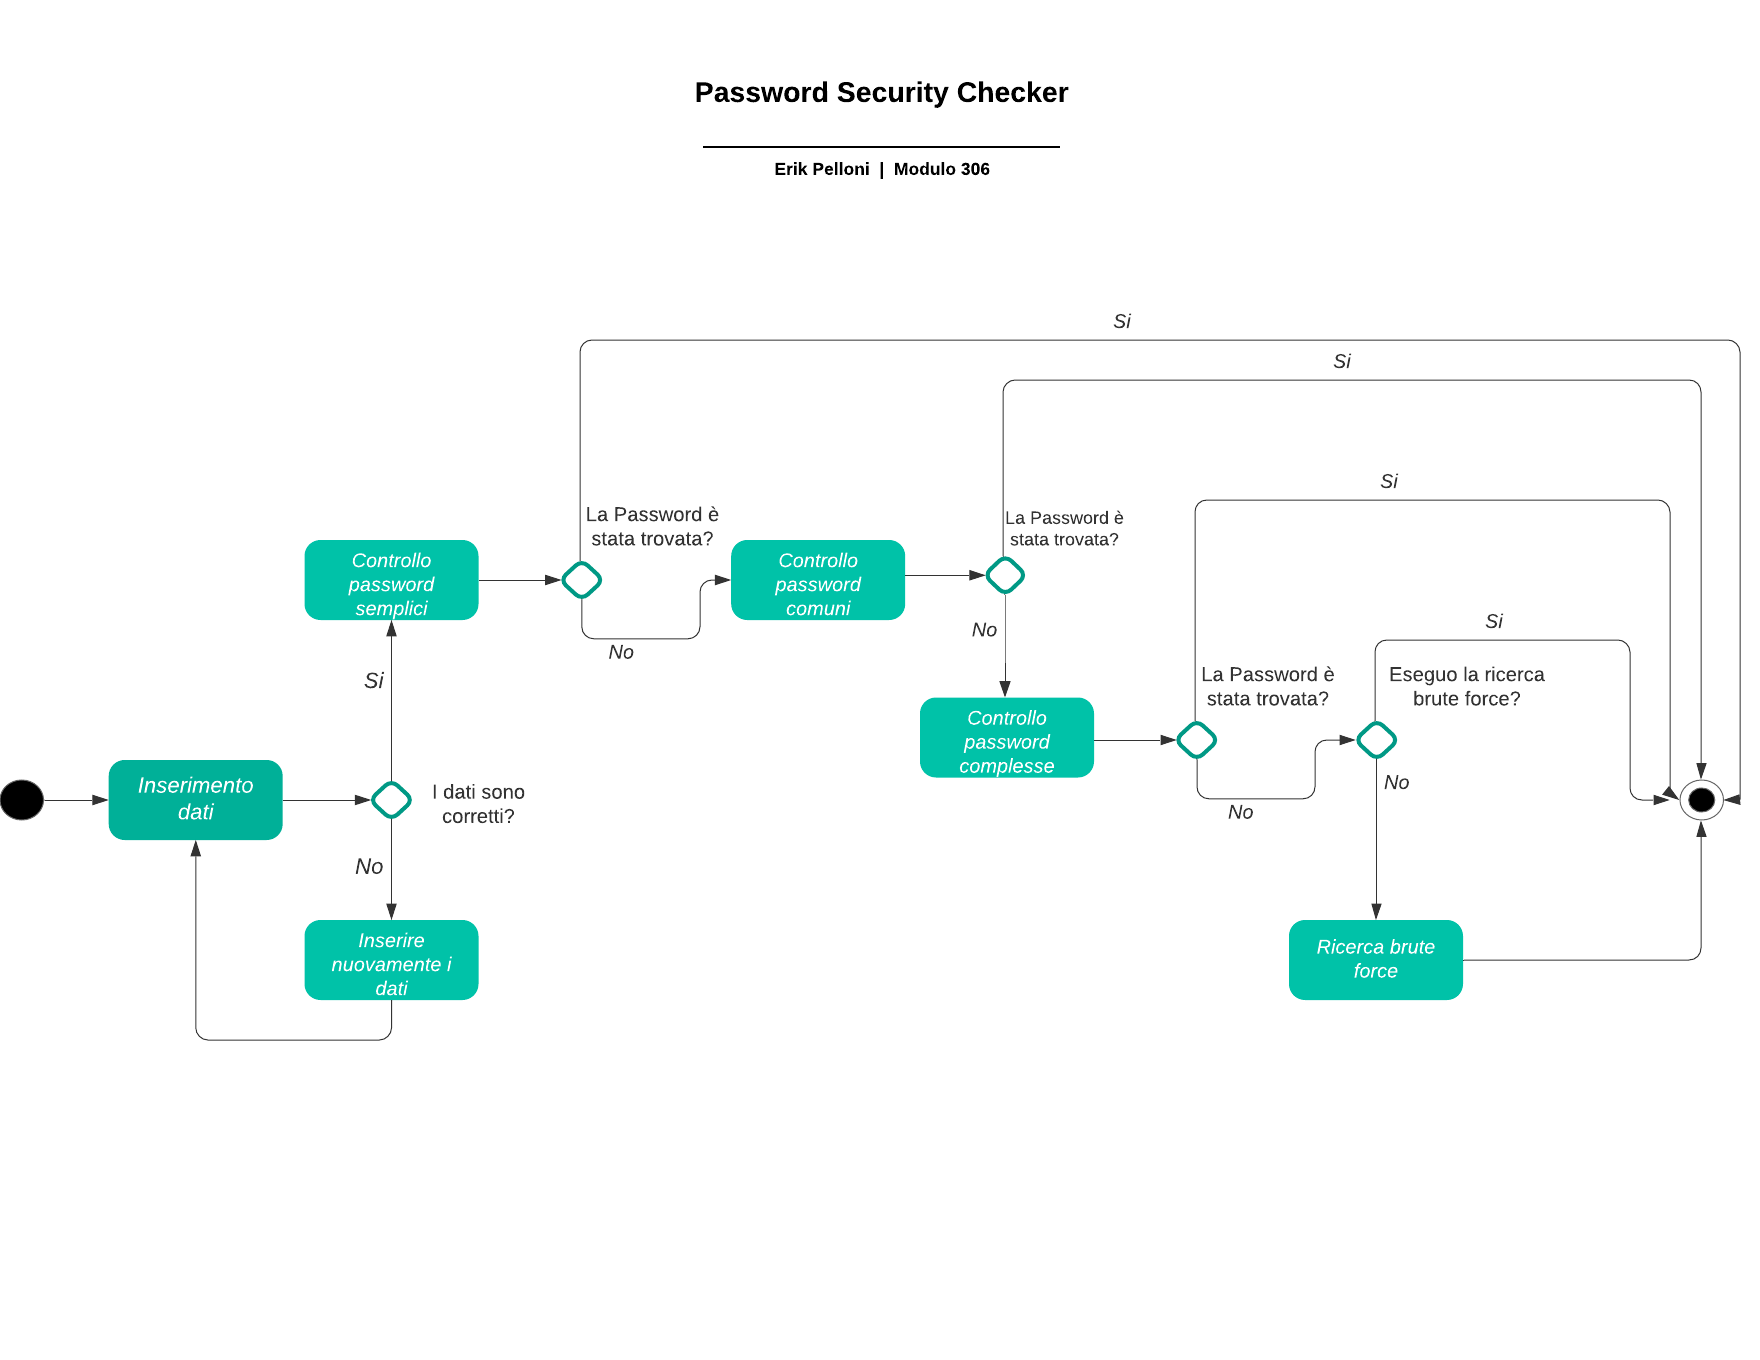
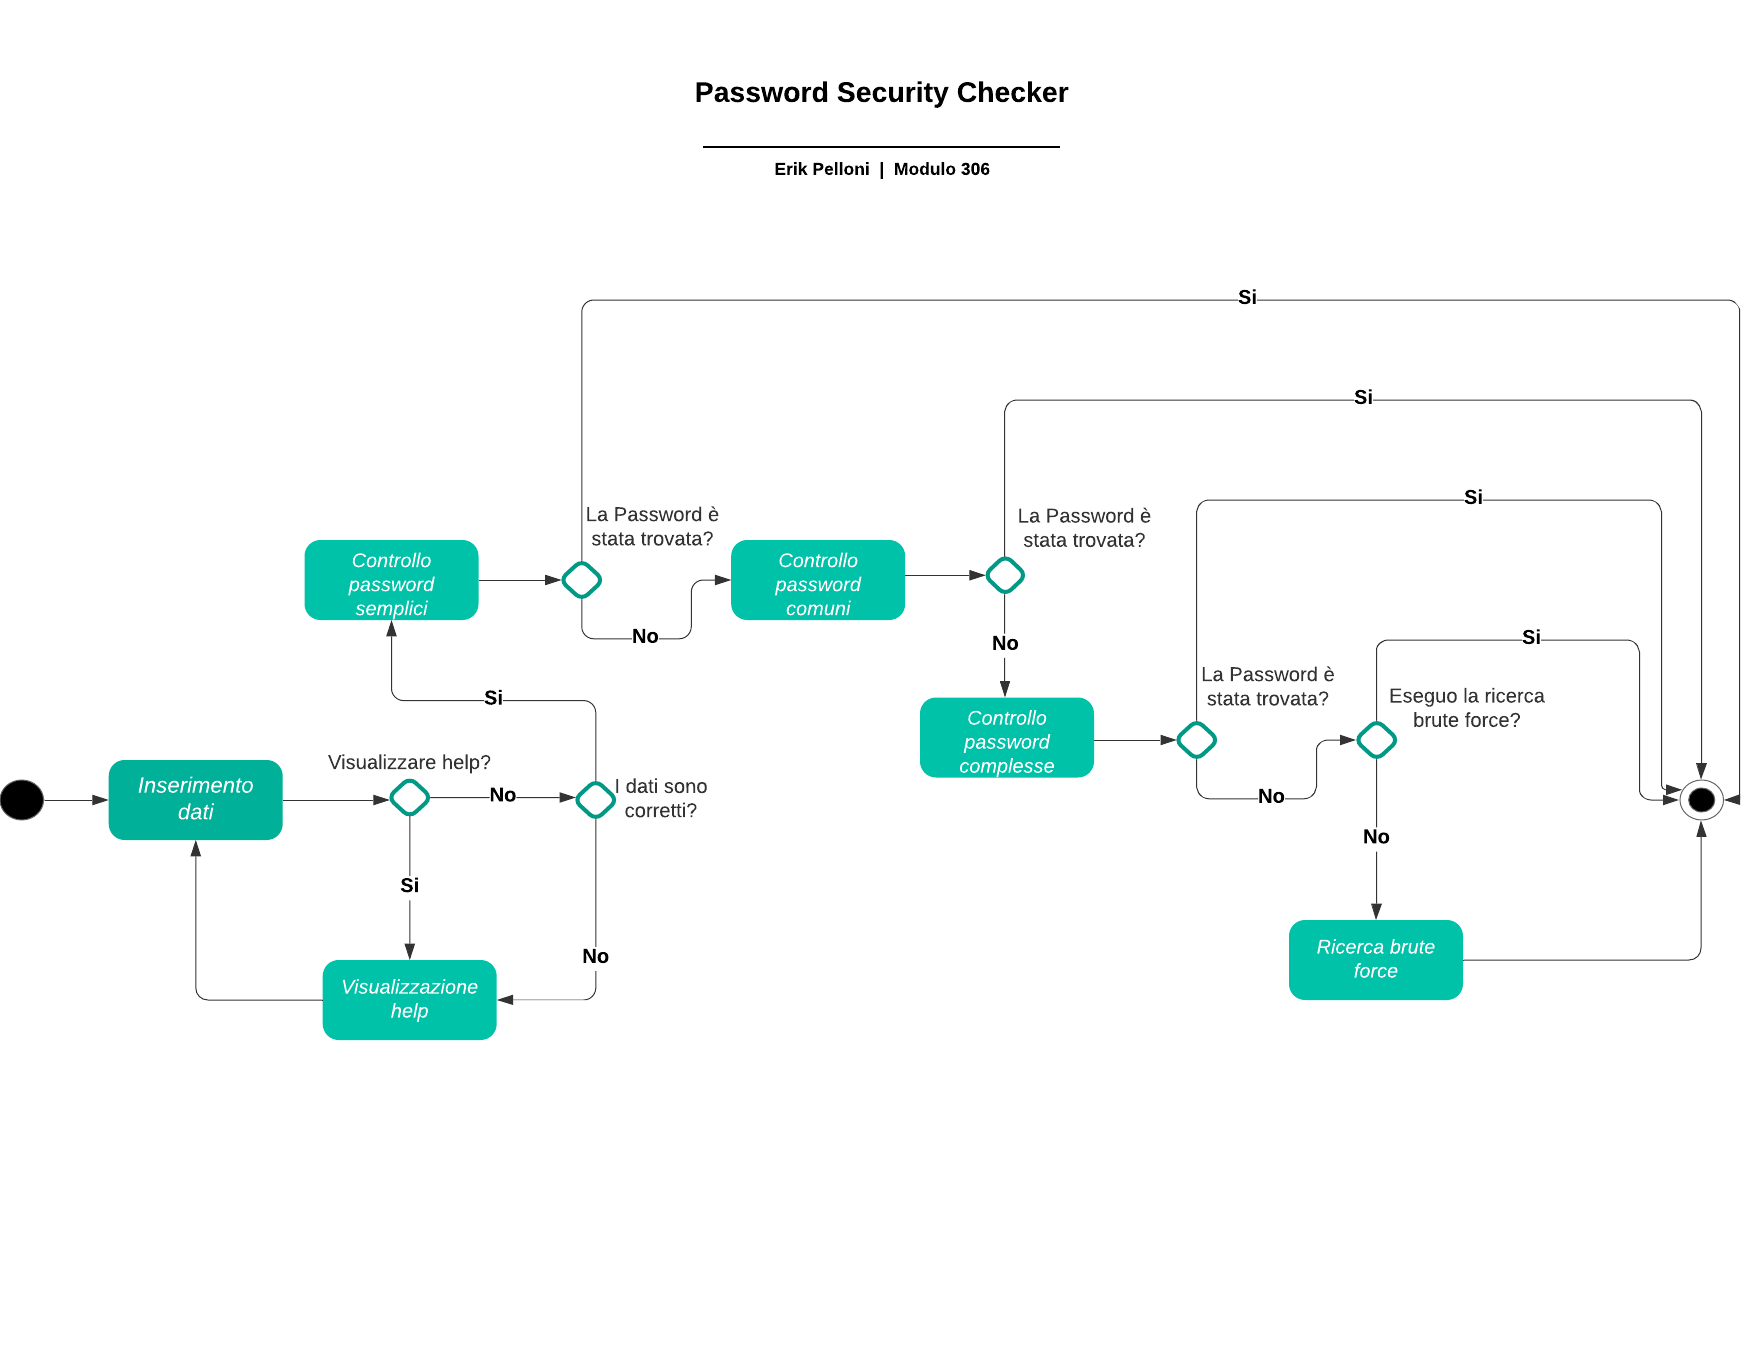
completamento activity e descrizione funzionamento

diff --git a/Documenti/Documentazione/Documentazione_PSC.md b/Documenti/Documentazione/Documentazione_PSC.md
@@ -259,14 +259,28 @@ Descrive:
 
 -   Eventuale sitemap
 
-### Design dei dati e database
-
-Descrizione delle strutture di dati utilizzate dal programma in base
-agli attributi e le relazioni degli oggetti in uso.
+### Design procedurale
+<br>
 
 ### Activity Diagram
 
 ![activity](../PSC-Activity_Diagram.png)
+
+#### Descrizione
+
+Lanciando l'applicazione si passano anche i dati necessari per il funzionmento.
+ <br>Se le informazioni non sono passate nel modo corretto o se l'utente ha scento di visualizzare l'help, l'applicazione mostra l'help (che spiega la formattazine dei valori di input) e chiede nuovamente di inserire i dati.
+ 
+ Una volta inseriti correttamente i dati il programma comincia a provare a forzare la password.
+
+ In un primo momento vengono provate le combinazioni più semplici. Se la password viene trovata, il programma giunge a termine, se no si passa al controllo successivo.
+
+ Il secondo controllo che viene effettuato è quello tra la password fornita e la lista di password più frequentemente utilizzate. Anche in questo caso la procedura di funzionamento del programma è la medesima: se la password viene trovata, il programma giunge a termine, se no si passa al controllo successivo.
+
+Se la password non è presente nemmeno all'interno della lista, il controllo da compiere è quello delle combinazioni più complesse. Nuovamente la procedura finale è la stessa.
+
+Infine, se l'utente ha deciso di effettuarla, l'ultima ricerca effettuata è quella brute force. Una volta trovata la password o raggiunto l'eventuale limite (di tempo o di tentativi, stabilito dll'utente) il programma giunge al termine e stampa l'output finale.
+<br> <br>
 
 ### Design delle interfacce
 
@@ -275,7 +289,7 @@ dell’interfaccia utente. La progettazione delle interfacce è basata
 sulle informazioni ricavate durante la fase di analisi e realizzata
 tramite mockups.
 
-### Design procedurale
+
 
 Descrive i concetti dettagliati dell’architettura/sviluppo utilizzando
 ad esempio:

diff --git a/Diari/Diario_PSC_2021_09_23.md b/Diari/Diario_PSC_2021_09_23.md
@@ -8,8 +8,10 @@
 |Orario        |Lavoro svolto                                                   |
 |--------------|----------------------------------------------------------------|
 |12:15 - 12:20 |Creazione nuovo diario                                          |
-|13:30 - 14:30 |Activity diagram                                            |
-|15:15 - 16:15 |Aggiornamento diario, [README.md](../README.md) e documentazione|
+|13:30 - 14:50 |Activity diagram                                                |
+|14:50 - 15:00 |Descrizione Activity diagram                                    |
+|15:05 - 15:10 |Aggiornamento [README.md](../README.md)                         |
+|15:10 - 15:00 |Descrizione Activity diagram                                    |
 
 [//]: <> (##  Problemi riscontrati e soluzioni adottate)
 

diff --git a/README.md b/README.md
@@ -4,10 +4,12 @@
 |------------|--------------------|
 |Erik Pelloni|Luca Muggiasca      |
 
+## Descrizione
+
+Si tratta di un applicativo che, passate alcune informazioni base, prova a forzare la password fornita provando tutte le combinazioni dalle più frequenti a quelle meno probabili.
 
 ## Informazioni
 
-Si tratta di un applicativo che, passate alcune informazioni base, prova a forzare la password fornita provando tutte le combinazioni dalle più frequenti a quelle meno probabili.
 
 |Data inizio |Data consegna|
 |------------|-------------|
